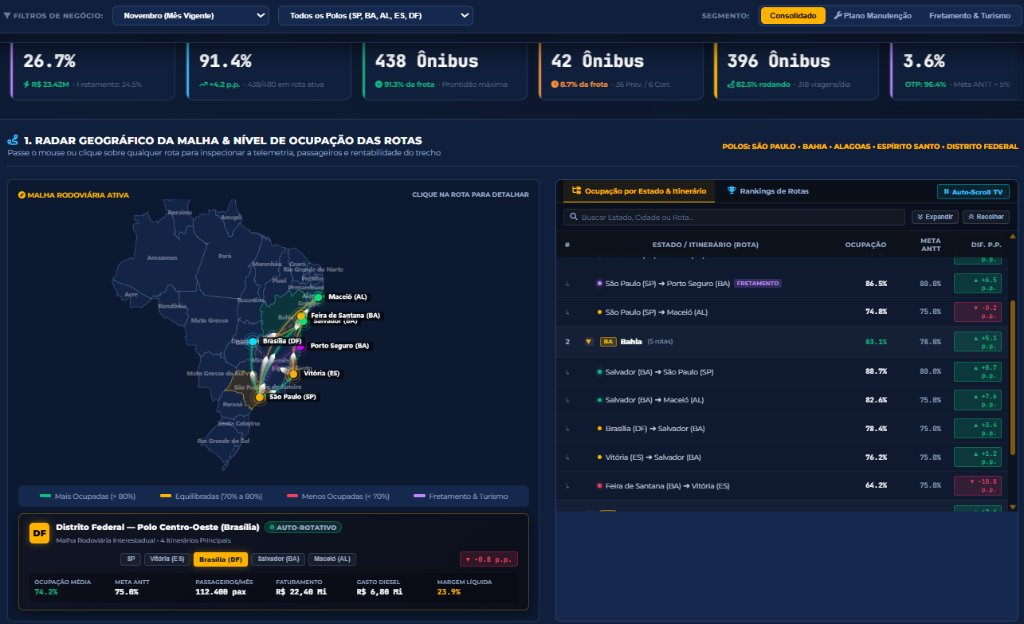
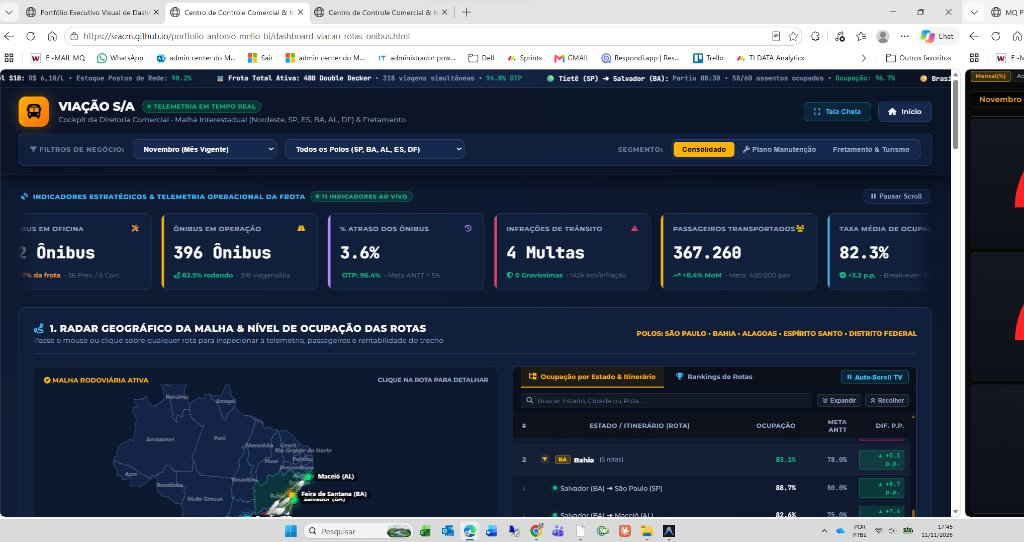
feat: atualizar screenshots dos cards Viacao e Transporte e versao de cache

diff --git a/index.html b/index.html
@@ -1318,7 +1318,7 @@
           "Chart.js"
         ],
         "impact": "Apoio à Diretoria Comercial na precificação dinâmica, redução de ociosidade em trechos críticos e economia de combustível em malha interestadual de 430 mil passageiros/mês.",
-        "image": "static/portfolio_screenshots/dash_viacao_rotas_onibus.jpg",
+        "image": "static/portfolio_screenshots/dash_viacao_rotas_onibus.jpg?v=20261112",
         "is_static": false,
         "live_url": "dashboard_viacao_rotas_onibus.html?v=ia",
         "secondary_url": null,
@@ -1340,7 +1340,7 @@
           "Analytics Executivo"
         ],
         "impact": "Monitoramento em tempo real para salas de diretoria e TVs corporativas, com metas trimestrais e zero compliance.",
-        "image": "static/portfolio_screenshots/dash_portfolio_08_unidade_negocios.jpg?v=2",
+        "image": "static/portfolio_screenshots/dash_portfolio_08_unidade_negocios.jpg?v=20261112",
         "is_static": false,
         "live_url": "08_unidade_de_negocios/mapa_brasil.html",
         "github_repo": "https://github.com/Sracm/portfolio-bi"
@@ -1360,7 +1360,7 @@
           "Facilities & Utilities"
         ],
         "impact": "Redução de 6.4% no custo de diesel por passageiro, otimização de itinerários e controle de custos prediais de garagens.",
-        "image": "static/portfolio_screenshots/dash_portfolio_07_transporte.jpg",
+        "image": "static/portfolio_screenshots/dash_portfolio_07_transporte.jpg?v=20261112",
         "is_static": false,
         "live_url": "07_transporte_infraestrutura/index.html?v=ia",
         "secondary_url": null,
